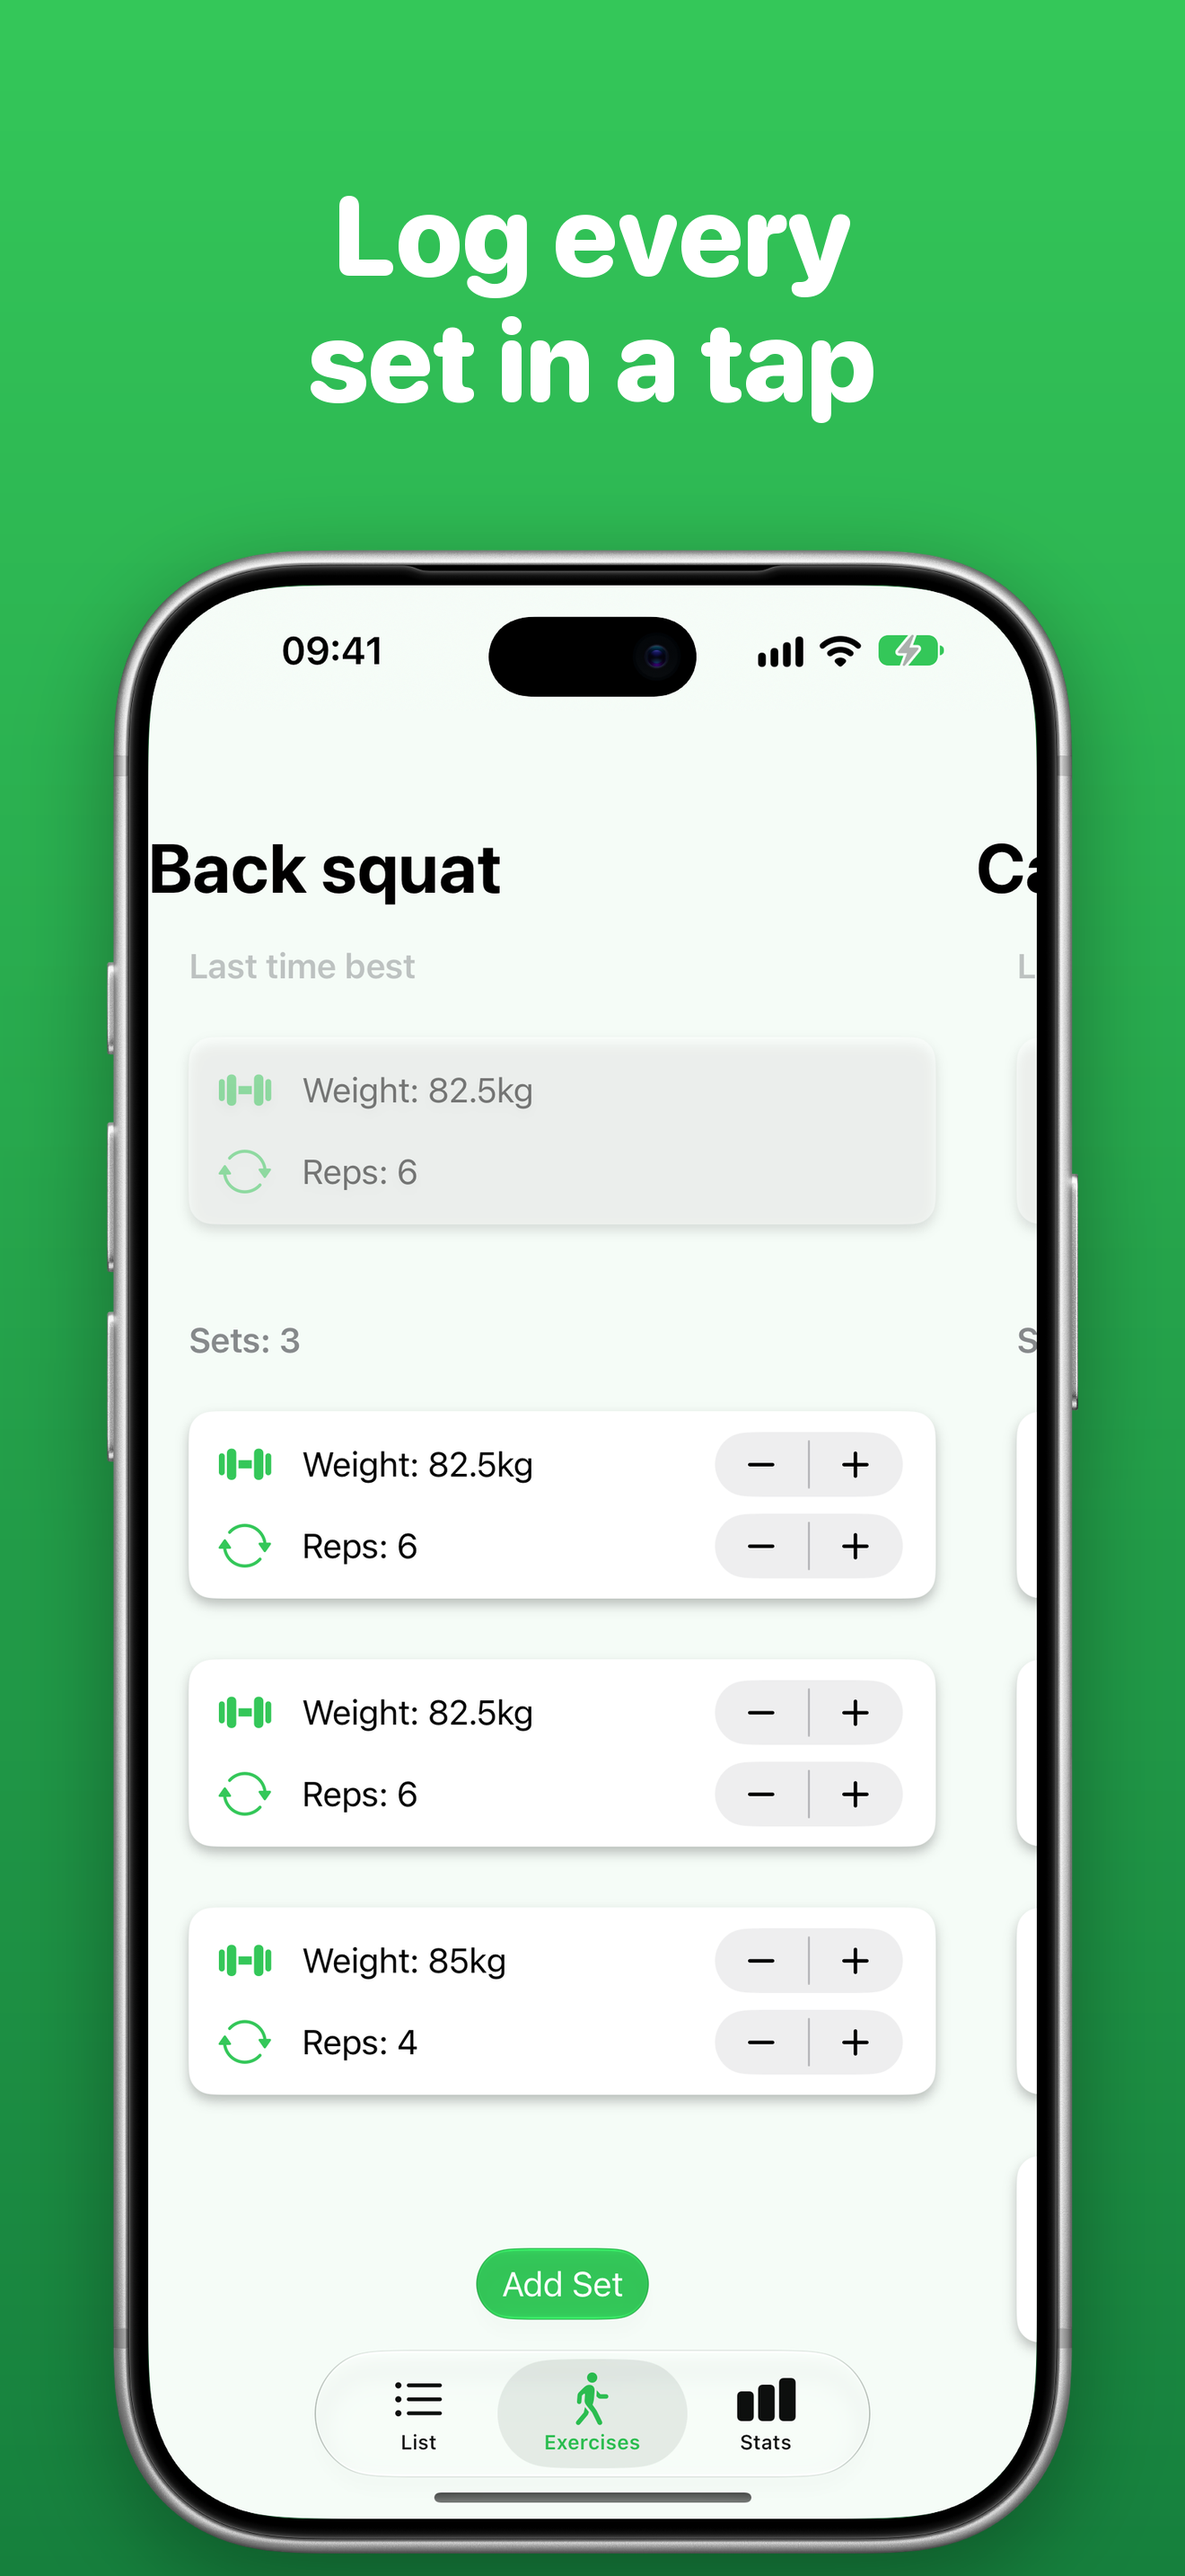
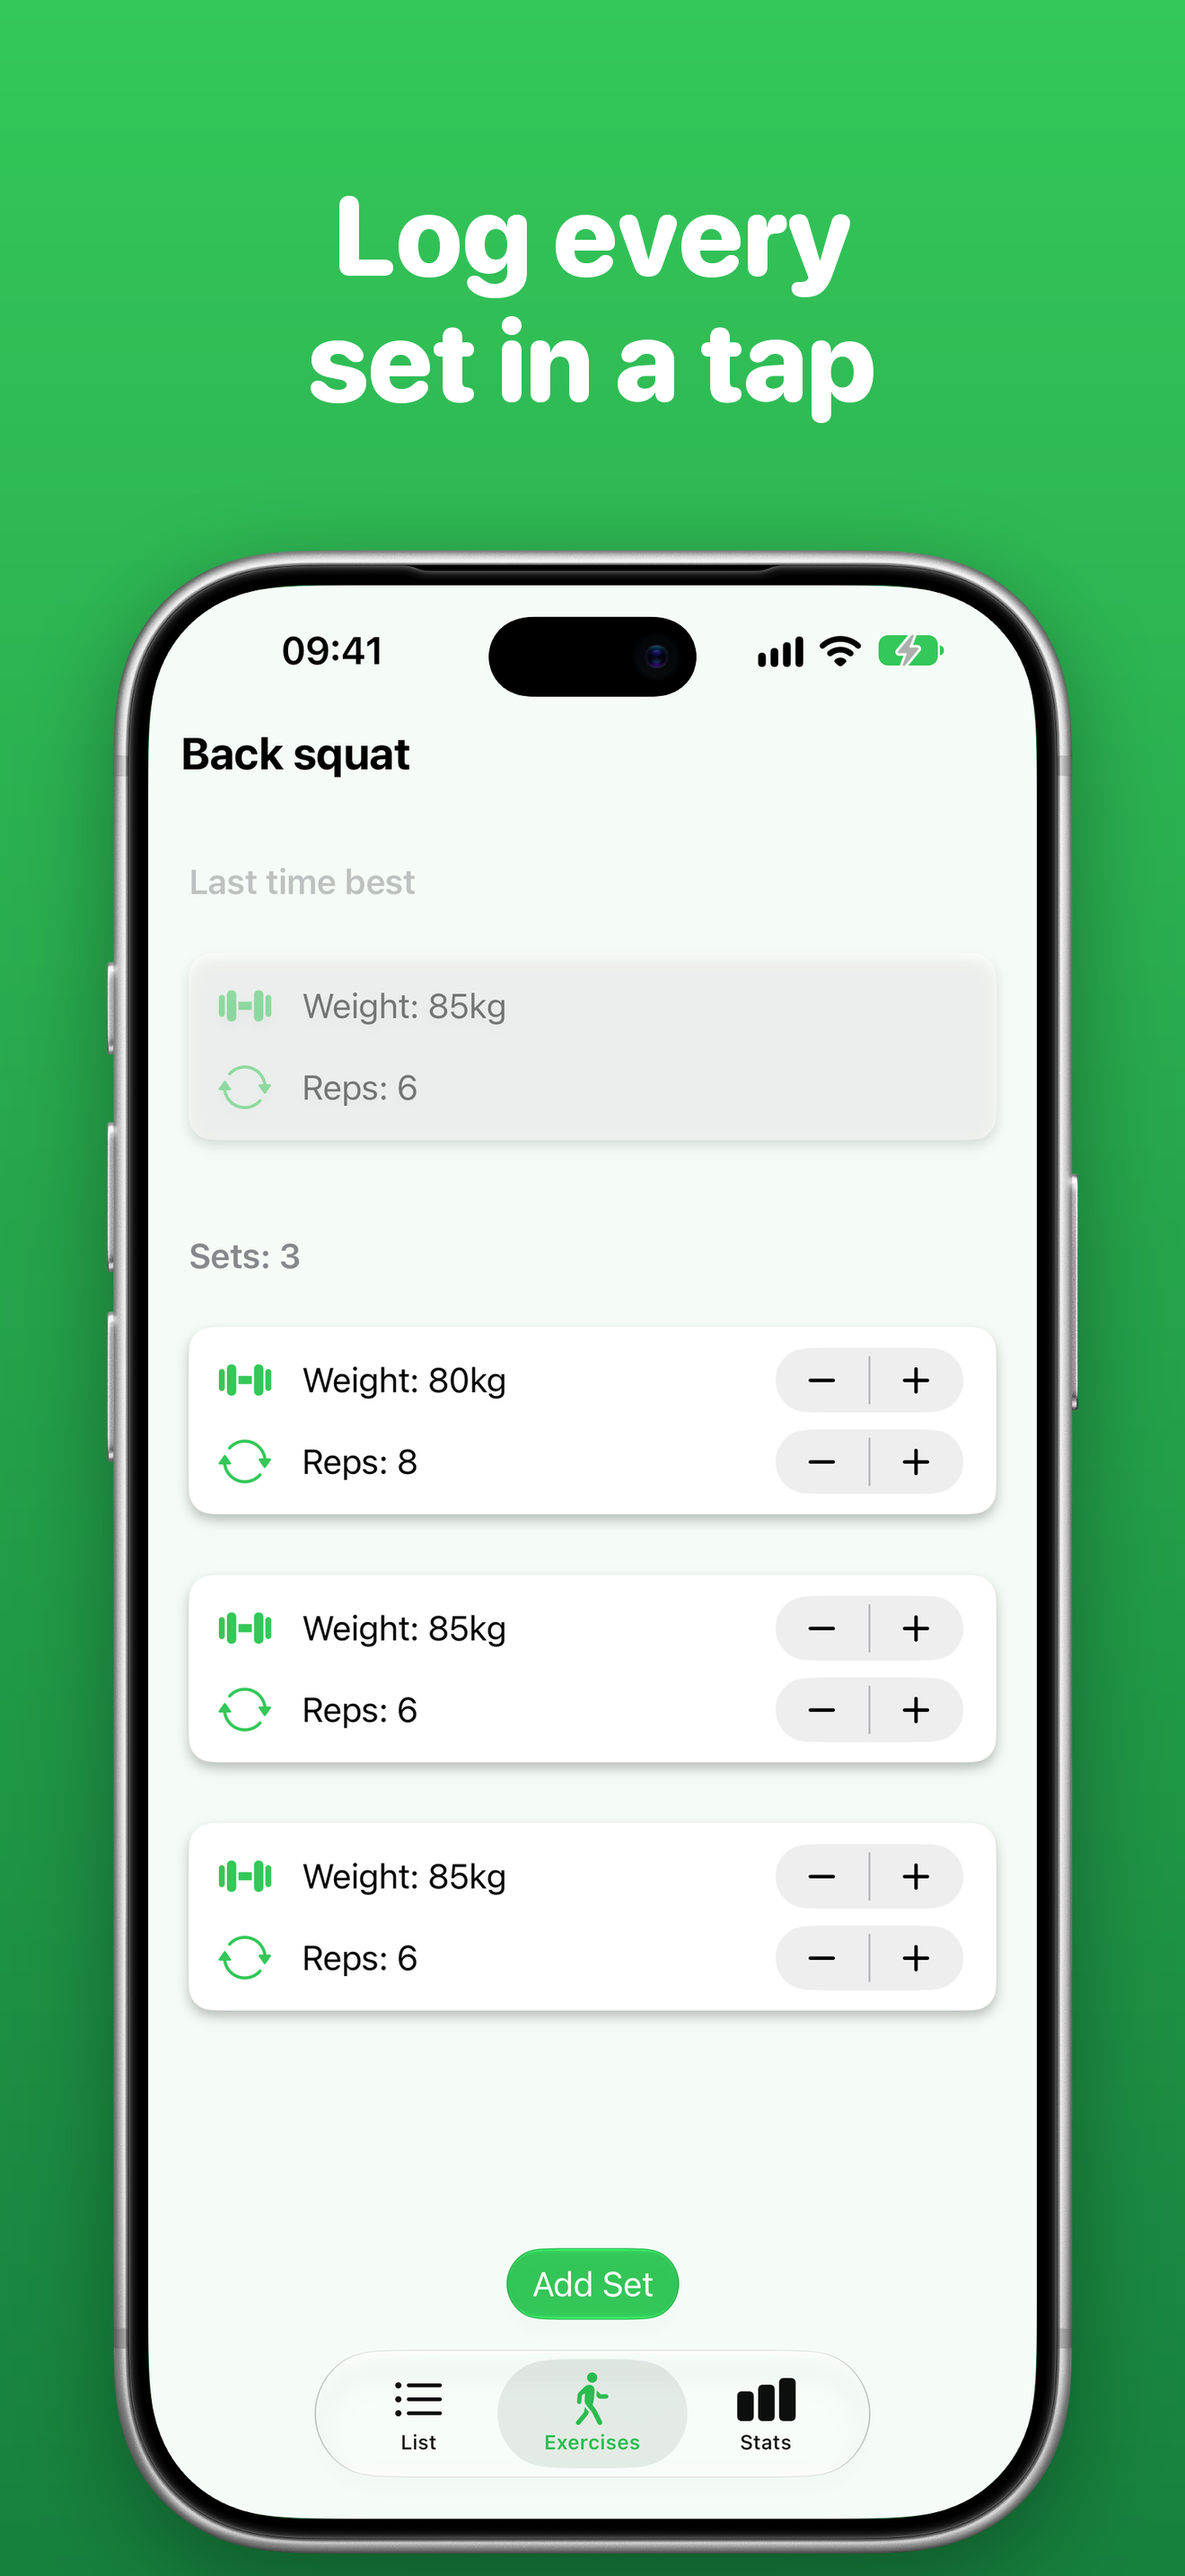
feat: Add the iPhone Duo App Store screenshots

diff --git a/AppStore/Scripts/make_screenshots.py b/AppStore/Scripts/make_screenshots.py
@@ -9,19 +9,34 @@ from make_creatives import ROOT, WHITE, bold_font, framed_phone, gradient, shado
 
 CONFIG_DIR = os.path.join(ROOT, "Screenshots", "config")
 DEVICES = {"sixPointSevenInch": "iphone", "iPadSixthGen": "ipad"}
+DUO_SIZE = (1398, 2034)
+
+LAYOUTS = {
+    "iphone": {"caption_width": 0.86, "caption_size": 0.098, "device_width": 0.84},
+    "duo": {"caption_width": 0.86, "caption_size": 0.090, "device_width": 0.80},
+    "ipad": {"caption_width": 0.80, "caption_size": 0.068, "device_width": 0.82},
+}
+
+FRAMES = {"duo": (48, 110), "ipad": (60, 90)}
 
 
-def framed_ipad(screenshot_path):
+def framed_screen(screenshot_path, border, screen_radius):
     screen = Image.open(screenshot_path).convert("RGBA")
-    border, radius = 60, 150
+    radius = screen_radius + border
     size = (screen.width + border * 2, screen.height + border * 2)
     frame = Image.new("RGBA", size, (0, 0, 0, 0))
     ImageDraw.Draw(frame).rounded_rectangle((0, 0, size[0] - 1, size[1] - 1), radius=radius, fill=(28, 28, 30, 255))
     ImageDraw.Draw(frame).rounded_rectangle((6, 6, size[0] - 7, size[1] - 7), radius=radius - 6, outline=(72, 72, 76, 255), width=4)
     mask = Image.new("L", screen.size, 0)
-    ImageDraw.Draw(mask).rounded_rectangle((0, 0, screen.width - 1, screen.height - 1), radius=radius - border, fill=255)
+    ImageDraw.Draw(mask).rounded_rectangle((0, 0, screen.width - 1, screen.height - 1), radius=screen_radius, fill=255)
     frame.paste(screen, (border, border), mask)
     return frame
+
+
+def framed_device(device, screenshot_path):
+    if device == "iphone":
+        return framed_phone(screenshot_path)
+    return framed_screen(screenshot_path, *FRAMES[device])
 
 
 def wrapped(draw, text, font, max_width):
@@ -47,8 +62,8 @@ def caption_font(draw, text, max_width, size):
 
 def caption_box(device, size):
     w, _ = size
-    is_phone = device == "iphone"
-    return int(w * (0.86 if is_phone else 0.80)), int(w * (0.098 if is_phone else 0.068))
+    layout = LAYOUTS[device]
+    return int(w * layout["caption_width"]), int(w * layout["caption_size"])
 
 
 def group_font(device, captions, size):
@@ -61,7 +76,6 @@ def compose(device, image_path, caption, font, size, out_path):
     w, h = size
     img = gradient(size).convert("RGBA")
     draw = ImageDraw.Draw(img)
-    is_phone = device == "iphone"
     max_width, _ = caption_box(device, size)
     line_height = int(font.size * 1.12)
     lines = wrapped(draw, caption, font, max_width)
@@ -72,14 +86,21 @@ def compose(device, image_path, caption, font, size, out_path):
         draw.text(((w - (box[2] - box[0])) // 2 - box[0], y), line, font=font, fill=WHITE)
         y += line_height
 
-    device_image = framed_phone(image_path) if is_phone else framed_ipad(image_path)
-    scale = (w * (0.84 if is_phone else 0.82)) / device_image.width
+    device_image = framed_device(device, image_path)
+    scale = (w * LAYOUTS[device]["device_width"]) / device_image.width
     framed, pad = shadowed(device_image, scale)
     top = band_top + 2 * line_height + int(h * 0.045)
     img.alpha_composite(framed, ((w - framed.width) // 2, top - pad))
 
     img.convert("RGB").save(out_path, "PNG", optimize=True)
     print(out_path, size)
+
+
+def render(device, screenshots, size, out_dir):
+    os.makedirs(out_dir, exist_ok=True)
+    font = group_font(device, [caption for _, caption in screenshots], size)
+    for index, (image_path, caption) in enumerate(screenshots, start=1):
+        compose(device, image_path, caption, font, size, os.path.join(out_dir, f"{index:02d}.png"))
 
 
 def main():
@@ -91,13 +112,11 @@ def main():
         config = json.load(open(os.path.join(CONFIG_DIR, f"{lang}.json")))
         for group in config["groups"]:
             device = DEVICES[group["device"]]
-            out_dir = os.path.join(args.out, lang, device)
-            os.makedirs(out_dir, exist_ok=True)
-            size = tuple(group["size"])
-            font = group_font(device, [shot["caption"] for shot in group["screenshots"]], size)
-            for index, shot in enumerate(group["screenshots"], start=1):
-                image_path = os.path.normpath(os.path.join(CONFIG_DIR, shot["image"]))
-                compose(device, image_path, shot["caption"], font, size, os.path.join(out_dir, f"{index:02d}.png"))
+            screenshots = [(os.path.normpath(os.path.join(CONFIG_DIR, shot["image"])), shot["caption"]) for shot in group["screenshots"]]
+            render(device, screenshots, tuple(group["size"]), os.path.join(args.out, lang, device))
+            if device == "iphone":
+                duo_screenshots = [(path.replace(f"{os.sep}iphone{os.sep}", f"{os.sep}duo{os.sep}"), caption) for path, caption in screenshots]
+                render("duo", duo_screenshots, DUO_SIZE, os.path.join(args.out, lang, "duo"))
 
 
 if __name__ == "__main__":

diff --git a/AppStore/README.md b/AppStore/README.md
@@ -22,7 +22,7 @@ The support, marketing and privacy URLs point to the website in `Site/` at `http
 
 ## Screenshots
 
-The raw captures come from the iPhone 18 Pro Max (1320 × 2868, the 6.9" class) and the 13" iPad Pro (2064 × 2752) simulators, on iOS 27, with the status bar set to 9:41, full battery and full signal. They were taken from a Debug build seeded with eight weeks of realistic training history.
+The raw captures come from the iPhone 18 Pro Max (1320 × 2868, the 6.9" class), the iPhone Duo (1398 × 2034, its primary display) and the 13" iPad Pro (2064 × 2752) simulators, on iOS 27, with the status bar set to 9:41, full battery and full signal. They were taken from a Debug build seeded with eight weeks of realistic training history.
 
 | # | Raw file | English caption | French caption |
 | --- | --- | --- | --- |
@@ -33,7 +33,7 @@ The raw captures come from the iPhone 18 Pro Max (1320 × 2868, the 6.9" class) 
 | 5 | `05-calendar` | Every session, day by day | Chaque séance, jour après jour |
 | 6 | `06-trainings` | Build trainings your way | Vos entraînements, à votre façon |
 
-The final screenshots in `export/` have the caption and the device frame. Regenerate them after changing a caption or a capture:
+The final screenshots in `export/` have the caption and the device frame. The iPhone Duo set reuses the iPhone captions with the captures in `raw/duo/`. It has no bezel image, so its frame is drawn by the script, like the iPad one. Regenerate them after changing a caption or a capture:
 
 ```sh
 python3 AppStore/Scripts/make_screenshots.py
@@ -44,6 +44,7 @@ Upload them with the [`asc`](https://github.com/rorkai/App-Store-Connect-CLI) CL
 ```sh
 asc screenshots upload --version-localization LOCALIZATION_ID --path AppStore/Screenshots/export/en/iphone --device-type IPHONE_69 --replace --confirm --concurrency 1
 asc screenshots upload --version-localization LOCALIZATION_ID --path AppStore/Screenshots/export/en/ipad --device-type IPAD_PRO_3GEN_129 --replace --confirm --concurrency 1
+asc screenshots upload --version-localization LOCALIZATION_ID --path AppStore/Screenshots/export/en/duo --device-type IPHONE_DUO --replace --confirm --concurrency 1
 ```
 
 Keep `--concurrency 1`: parallel uploads can land out of order in the set.
